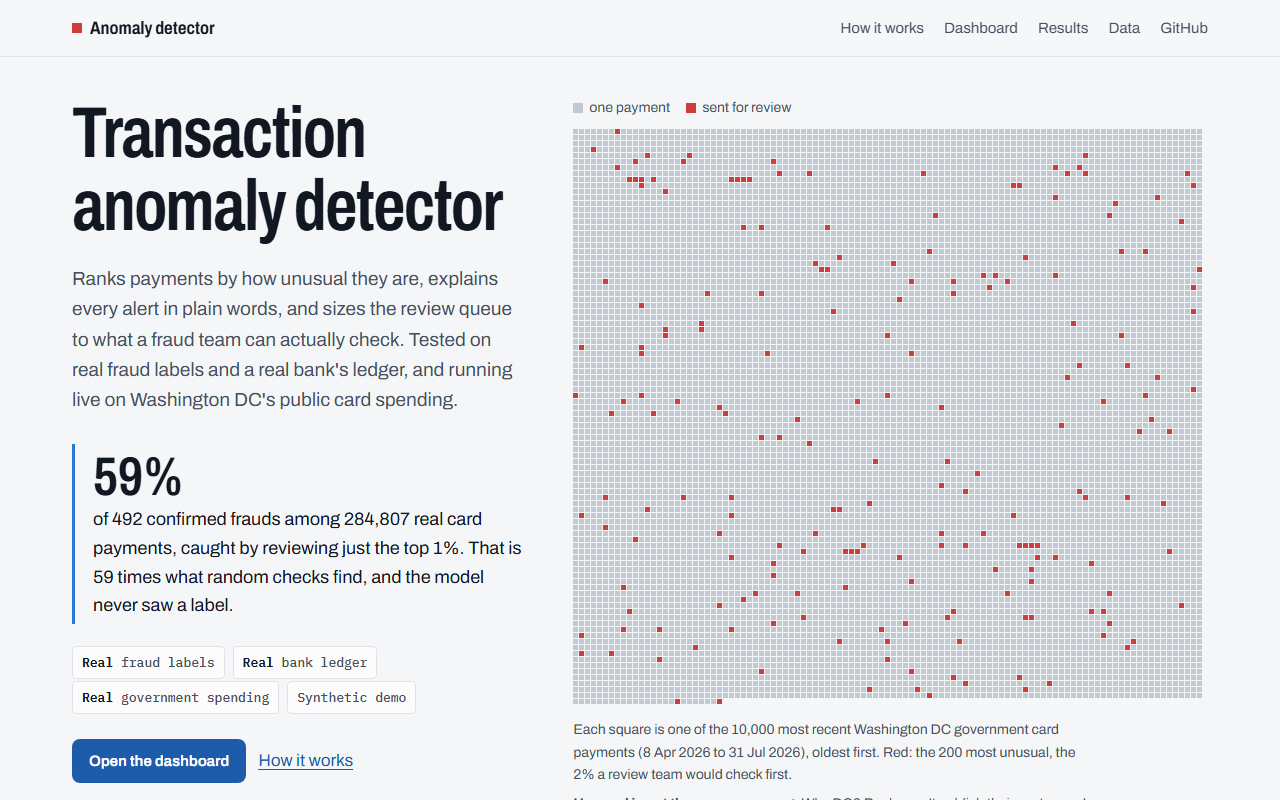
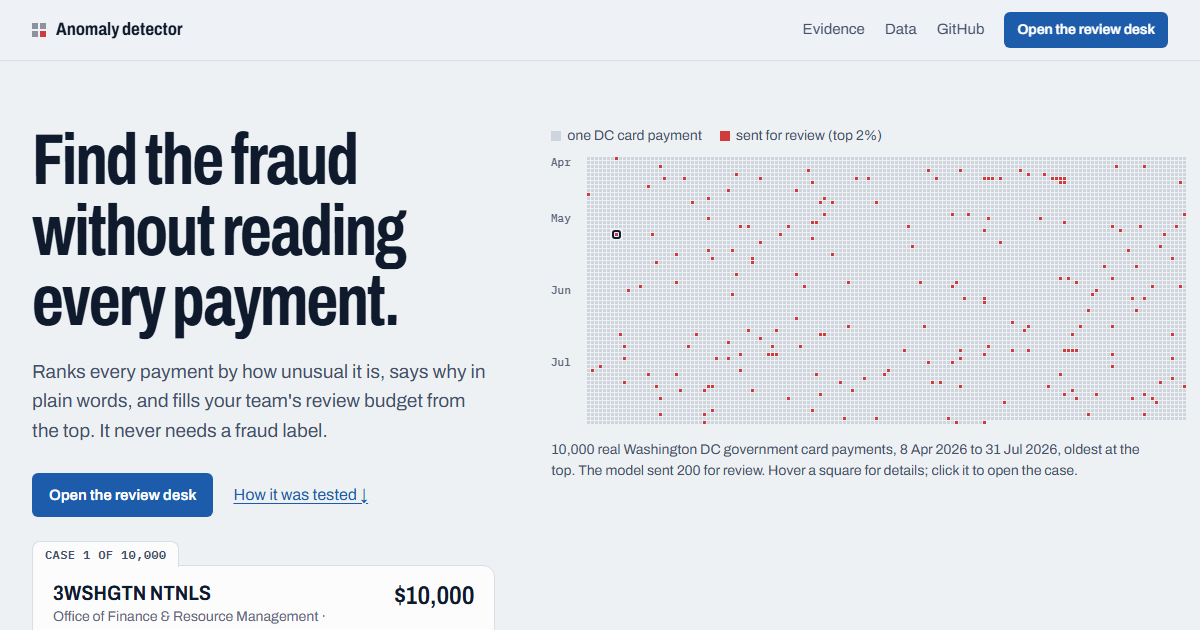
Refresh README and screenshots for the landing page and review desk

diff --git a/README.md b/README.md
@@ -12,21 +12,34 @@ It is tested on real data:
 - **A real Czech bank's ledger.**
 - **Washington DC's public government card spending**, scored live.
 
-![The site: a grid of 10,000 real DC government card payments with the 200 most unusual in red](images/app.png)
+![The landing page: 10,000 real DC government card payments as a grid, oldest at the top, with the 200 most unusual in red](images/app.png)
 
-Started from DataCamp's guided project [*Detecting Anomalous Transactions*](https://www.datacamp.com/projects/2755), then taken further: real data, a real-label evaluation, a measured model choice, reason codes and a public dashboard.
+Started from DataCamp's guided project [*Detecting Anomalous Transactions*](https://www.datacamp.com/projects/2755), then taken further: real data, a real-label evaluation, a measured model choice, reason codes and a review desk.
 
 ## What the site shows
-1. **A haystack:** each of 10,000 recent DC government card payments is a square. The 2% a review team would check first are red.
-2. **One payment, step by step:** the most unusual DC payment goes through the whole pipeline. It's a $10,000 restaurant bill from the Office of Finance & Resource Management, 47 times the typical restaurant purchase.
-3. **A dashboard:**
-   - Pick a dataset or upload your own CSV (including an Indian bank statement), and set the review capacity.
-   - Open any alert to see why it was flagged.
-   - Download the queue.
-4. **Results:** the real-label test, the planted-fraud test, and the evidence behind the model choice.
-5. **Data, limits and responsible use:** where every dataset comes from, what each result does and does not prove, and how the alerts should be used.
+**The landing page** opens on a haystack:
+- Each of 10,000 recent DC government card payments is a square, oldest at the top.
+- The 2% a review team would check first are red.
+- Click any square to read its case.
+- Three numbers and one chart from the real-fraud test follow.
 
-![Follow one payment through the model](images/walkthrough.png)
+**The review desk** (`/dashboard.html`) is a full-width app with three tabs:
+- **Queue:**
+  - The alert queue is sized by a "your team reviews" slider. Next to it, a case panel explains each alert.
+  - Mark each case "looks fine" (F) or "escalate" (E), and move with J and K. Marks stay in your browser and go into the CSV export.
+  - A timeline of payments and alerts sits on top. Drag its handles to filter everything.
+- **Patterns:** alerts by day, alert rate by agency and by category, and amount against anomaly score ("are alerts just big payments?"). Click any bar or cell to filter.
+- **Model:**
+  - the real-label and planted-fraud results
+  - a review-cost calculator that finds the queue size that pays for itself
+  - the six steps from payment to case
+  - the data sources and the limits
+
+Pick a dataset (DC cards, Czech bank or synthetic), or upload your own CSV, including an Indian bank statement.
+
+![The review desk: KPI tiles, a timeline of payments and alerts, and the queue next to a case panel](images/dashboard.png)
+
+![The Patterns tab: alerts by day as a calendar, and amount against anomaly score](images/patterns.png)
 
 ## Results
 
@@ -64,7 +77,7 @@ Share of each kind caught at 2%, Isolation Forest against the amount-only rule:
 | big-ticket purchases | 70% | 34% |
 | balance drains | 82% | 97% |
 
-![Results section of the site](images/results.png)
+![The Model tab: frauds caught as the review queue grows, and the review-cost calculator](images/results.png)
 
 ### Key findings
 - **Measure before you ensemble.** Averaging three detectors sounds safer, so it was the original design. The measurements say otherwise.
@@ -77,11 +90,11 @@ Share of each kind caught at 2%, Isolation Forest against the amount-only rule:
 ## Data
 | dataset | real? | labels | used for | licence |
 |---|---|---|---|---|
-| [Washington DC purchase-card transactions](https://opendata.dc.gov/datasets/DCGIS::purchase-card-transactions), newest 10,000 (8 Apr to 31 Jul 2026), `data/dc_pcard.csv` | real | none | hero, walkthrough, dashboard | CC BY 4.0, District of Columbia (Office of Contracting and Procurement) |
-| [PKDD'99 Czech bank ledger (Berka)](https://relational.fel.cvut.cz/dataset/Financial), full histories of 40 random accounts, `data/czech_bank_sample.csv` | real, anonymised | none | dashboard | no explicit licence; released for the PKDD'99 Discovery Challenge and mirrored for research since. Cited, sample only. |
+| [Washington DC purchase-card transactions](https://opendata.dc.gov/datasets/DCGIS::purchase-card-transactions), newest 10,000 (8 Apr to 31 Jul 2026), `data/dc_pcard.csv` | real | none | landing page, review desk | CC BY 4.0, District of Columbia (Office of Contracting and Procurement) |
+| [PKDD'99 Czech bank ledger (Berka)](https://relational.fel.cvut.cz/dataset/Financial), full histories of 40 random accounts, `data/czech_bank_sample.csv` | real, anonymised | none | review desk | no explicit licence; released for the PKDD'99 Discovery Challenge and mirrored for research since. Cited, sample only. |
 | [ULB / Worldline credit-card fraud](https://www.openml.org/d/1597) | real, anonymised (PCA) | 492 frauds | results | ODbL / DbCL. Downloaded at build time, never committed. Dal Pozzolo et al., 2015 |
 | [Bank Transaction Dataset for Fraud Detection](https://www.kaggle.com/datasets/valakhorasani/bank-transaction-dataset-for-fraud-detection) (Vala Khorasani), `data/bank_transactions_data_2.csv` | synthetic | none | planted-fraud test, the original DataCamp project | [Apache-2.0](data/LICENSE) |
-| your own CSV, uploaded on the site | yours | none | dashboard | scored in memory, never stored |
+| your own CSV, uploaded on the site | yours | none | review desk | scored in memory, never stored |
 
 **Why there's no "real bank fraud" dataset here:**
 - Banks are bound by secrecy and data-protection law: India's DPDP Act 2023, the EU's GDPR and the US GLBA.
@@ -118,7 +131,7 @@ Then:
 
 The FastAPI app (`app.py`) only scores uploads.
 
-![Dashboard](images/dashboard.png)
+The front end has no build step. It is plain HTML and JavaScript with [Apache ECharts](https://echarts.apache.org) from a CDN. Each chart has a "Show as table" view. Uploaded values only reach the page as text, including inside chart tooltips.
 
 ## Upload your own data
 `POST /api/score` with a CSV (30 to 10,000 rows, at most 4 MB) accepts either format:
@@ -151,8 +164,11 @@ jupyter lab notebook.ipynb         # the analysis
 
 ## Project structure
 ```
-├── static/index.html   the site: story, walkthrough, dashboard, results, data (no build step)
-├── static/data/        scored datasets + report.json, generated by report.py
+├── static/index.html      landing page (no build step)
+├── static/dashboard.html  the review desk: queue, patterns, model
+├── static/app.js          helpers and chart setup shared by both pages
+├── static/style.css       shared styles
+├── static/data/           scored datasets + report.json, generated by report.py
 ├── app.py              FastAPI: upload scoring (bank schema or bank statement), serves the site
 ├── detect.py           feature recipes, detectors, alerting, reason codes
 ├── report.py           fetches data, scores it, runs the real-label and planted-fraud evaluations
@@ -170,9 +186,11 @@ jupyter lab notebook.ipynb         # the analysis
 - Per-account baselines are noisy when an account has few payments.
 
 ## Next steps
-- Record reviewers' verdicts on alerts as labels, then train a supervised model on them.
-- A time-series view (daily volumes, seasonal baselines) for the ledger data.
-- SHAP-based explanations next to the percentile reason codes.
+- Run the model and one hard amount rule as a single queue, and measure it. The planted test shows they catch different fraud.
+- Turn the verdicts exported from the review desk into labels, then train a supervised model on them.
+- Add confidence intervals to recall at each review rate and to the alert rates by group.
+- Refresh the DC data on a schedule, and stamp the page with "data as of".
+- Add SHAP-style explanations next to the percentile reason codes.
 
 ## Credits
 - Project idea: DataCamp, *Detecting Anomalous Transactions* (Mike Preble), and the *Anomaly Detection in Python* course.
